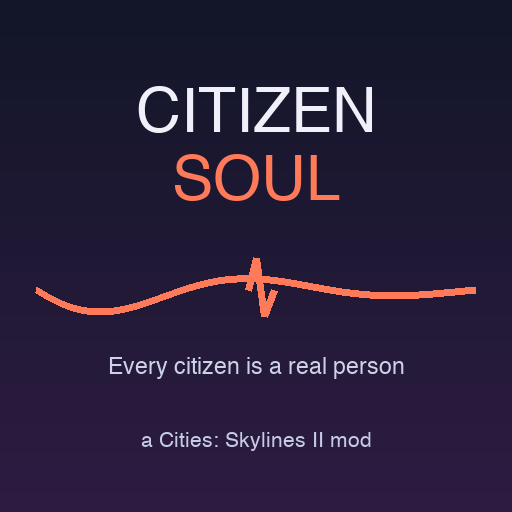
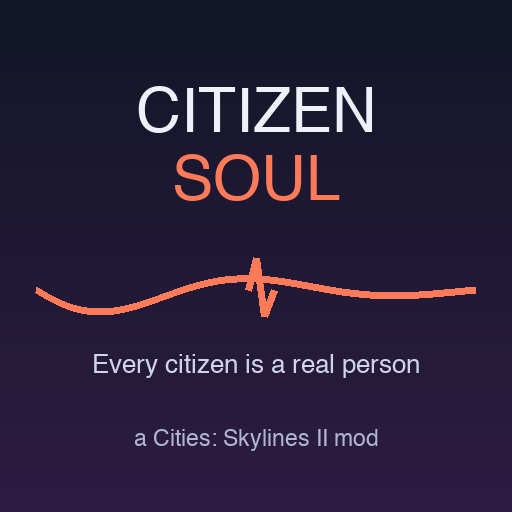
M6b: thumbnail legibility bump for storefront downscale
Tagline 23->26px, credit 21->23px (dimmer, keeps hierarchy); regen stays one command: python3 Tools/make_thumbnail.py

Changed region(s): [[0.1562, 0.6875, 0.8125, 0.75], [0.25, 0.8125, 0.75, 0.875]]

diff --git a/Tools/make_thumbnail.py b/Tools/make_thumbnail.py
@@ -60,8 +60,8 @@ def center(text, font, y, fill):
 
 center("CITIZEN", load_font(62), 84, (240, 240, 250))
 center("SOUL", load_font(62), 152, (255, 122, 89))
-center("Every citizen is a real person", load_font(23), 356, (205, 210, 230))
-center("a Cities: Skylines II mod", load_font(21), 430, (198, 203, 226))
+center("Every citizen is a real person", load_font(26), 352, (208, 212, 234))
+center("a Cities: Skylines II mod", load_font(23), 428, (176, 181, 208))
 
 os.makedirs(os.path.dirname(OUT), exist_ok=True)
 img.save(OUT)
